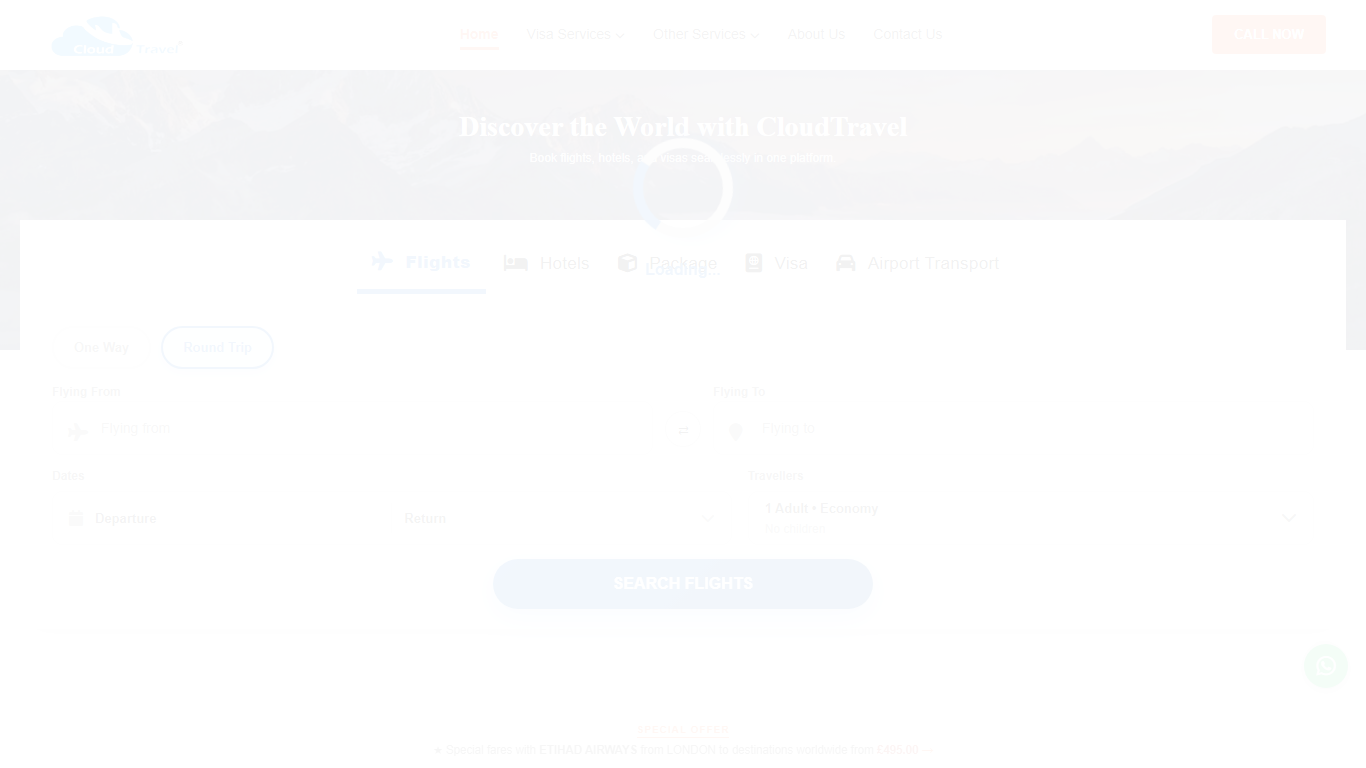
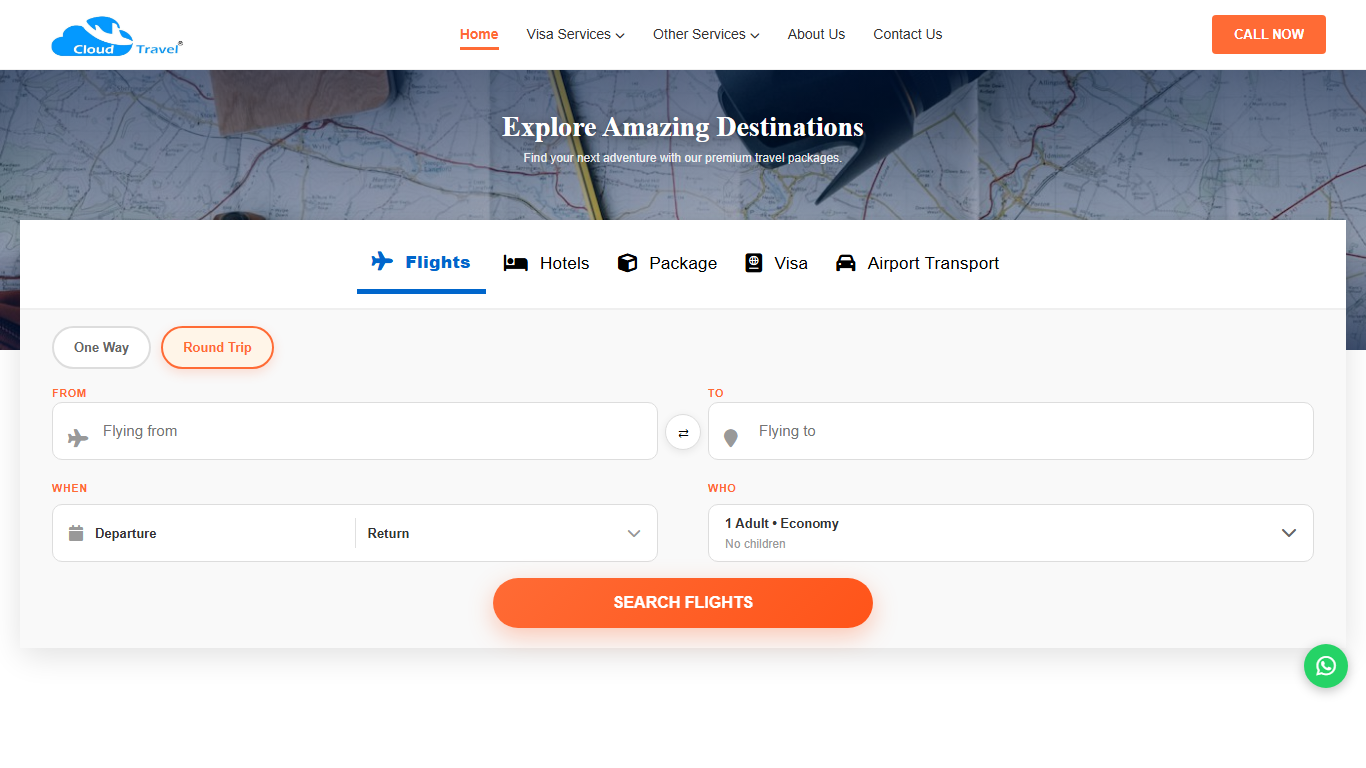
flight search input done

diff --git a/resources/js/components/FlightSearchForm.tsx b/resources/js/components/FlightSearchForm.tsx
@@ -78,21 +78,21 @@ export default function FlightSearchForm({
     return (
         <div className="flight-search-form">
             {/* Trip Type Toggle */}
-            <div className="trip-type-buttons" style={{ display: 'flex', gap: '10px', marginBottom: '14px', paddingBottom: '0px', borderBottom: 'none' }}>
+            <div className="trip-type-buttons" style={{ display: 'flex', gap: '10px', marginBottom: '16px', paddingBottom: '0px', borderBottom: 'none' }}>
                 <button
                     onClick={() => setTripType('oneway')}
                     className="trip-type-btn"
                     style={{
-                        background: tripType === 'oneway' ? '#e8f1ff' : '#fff',
-                        color: tripType === 'oneway' ? '#0066cc' : '#666',
-                        border: `2px solid ${tripType === 'oneway' ? '#0066cc' : '#ddd'}`,
+                        background: tripType === 'oneway' ? '#fff5e8' : '#fff',
+                        color: tripType === 'oneway' ? '#ff6b35' : '#666',
+                        border: `2px solid ${tripType === 'oneway' ? '#ff6b35' : '#ddd'}`,
                         padding: '10px 20px',
                         borderRadius: '24px',
                         fontSize: '13px',
                         fontWeight: 600,
                         cursor: 'pointer',
                         transition: 'all 0.3s cubic-bezier(0.4, 0, 0.2, 1)',
-                        boxShadow: tripType === 'oneway' ? '0 4px 12px rgba(0, 102, 204, 0.2)' : 'none'
+                        boxShadow: tripType === 'oneway' ? '0 4px 12px rgba(255, 107, 53, 0.2)' : 'none'
                     }}
                     onMouseEnter={(e) => {
                         e.currentTarget.style.transform = 'translateY(-2px)';
@@ -113,16 +113,16 @@ export default function FlightSearchForm({
                     onClick={() => setTripType('roundtrip')}
                     className="trip-type-btn"
                     style={{
-                        background: tripType === 'roundtrip' ? '#e8f1ff' : '#fff',
-                        color: tripType === 'roundtrip' ? '#0066cc' : '#666',
-                        border: `2px solid ${tripType === 'roundtrip' ? '#0066cc' : '#ddd'}`,
+                        background: tripType === 'roundtrip' ? '#fff5e8' : '#fff',
+                        color: tripType === 'roundtrip' ? '#ff6b35' : '#666',
+                        border: `2px solid ${tripType === 'roundtrip' ? '#ff6b35' : '#ddd'}`,
                         padding: '10px 20px',
                         borderRadius: '24px',
                         fontSize: '13px',
                         fontWeight: 600,
                         cursor: 'pointer',
                         transition: 'all 0.3s cubic-bezier(0.4, 0, 0.2, 1)',
-                        boxShadow: tripType === 'roundtrip' ? '0 4px 12px rgba(0, 102, 204, 0.2)' : 'none'
+                        boxShadow: tripType === 'roundtrip' ? '0 4px 12px rgba(255, 107, 53, 0.2)' : 'none'
                     }}
                     onMouseEnter={(e) => {
                         e.currentTarget.style.transform = 'translateY(-2px)';
@@ -142,11 +142,11 @@ export default function FlightSearchForm({
             </div>
 
             {/* Row 1: From, Swap, To */}
-            <div className="flight-search-row1" style={{ display: 'grid', gridTemplateColumns: '1fr 1fr', gap: '60px', marginBottom: '12px', alignItems: 'flex-start', position: 'relative' }}>
+            <div className="flight-search-row1" style={{ display: 'grid', gridTemplateColumns: '1fr 1fr', gap: '50px', marginBottom: '20px', alignItems: 'flex-start', position: 'relative' }}>
                 {/* FROM CITY - Searchable Dropdown */}
                 <div style={{ position: 'relative', width: '100%', margin: 0, padding: 0 }}>
-                    <label style={{ display: 'block', fontSize: '12px', color: '#666', marginBottom: '6px', fontWeight: 600, margin: 0, padding: 0 }}>Flying From</label>
-                    <div style={{ position: 'absolute', left: '16px', top: 'calc(50% + 14px)', transform: 'translateY(-50%)', fontSize: '18px', color: '#999', pointerEvents: 'none', zIndex: 5 }}>
+                    <label style={{ display: 'block', fontSize: '11px', color: '#ff6b35', marginBottom: '8px', fontWeight: 700, margin: 0, padding: 0, textTransform: 'uppercase', letterSpacing: '0.5px' }}>From</label>
+                    <div style={{ position: 'absolute', left: '16px', top: 'calc(50% + 16px)', transform: 'translateY(-50%)', fontSize: '18px', color: '#999', pointerEvents: 'none', zIndex: 5 }}>
                         <i className="fa fa-plane"></i>
                     </div>
                     <input
@@ -158,8 +158,16 @@ export default function FlightSearchForm({
                             setFromCity('');
                             setShowFromDropdown(true);
                         }}
-                        onFocus={() => setShowFromDropdown(true)}
-                        style={{ width: '100%', padding: '14px 16px 14px 48px', border: '1.5px solid #ddd', borderRadius: '10px', fontSize: '14px', height: '54px', boxSizing: 'border-box', transition: 'border-color 0.3s' }}
+                        onFocus={(e) => {
+                            setShowFromDropdown(true);
+                            e.currentTarget.style.borderColor = '#ff6b35';
+                            e.currentTarget.style.boxShadow = '0 0 0 3px rgba(255, 107, 53, 0.1)';
+                        }}
+                        onBlur={(e) => {
+                            e.currentTarget.style.borderColor = '#ddd';
+                            e.currentTarget.style.boxShadow = 'none';
+                        }}
+                        style={{ width: '100%', padding: '16px 16px 16px 50px', border: '1.5px solid #ddd', borderRadius: '10px', fontSize: '15px', height: '58px', boxSizing: 'border-box', transition: 'all 0.3s', fontWeight: 500 }}
                     />
                     {/* FROM DROPDOWN */}
                     {showFromDropdown && (
@@ -189,8 +197,8 @@ export default function FlightSearchForm({
 
                 {/* TO CITY - Searchable Dropdown */}
                 <div style={{ position: 'relative', width: '100%', margin: 0, padding: 0 }}>
-                    <label style={{ display: 'block', fontSize: '12px', color: '#666', marginBottom: '6px', fontWeight: 600, margin: 0, padding: 0 }}>Flying To</label>
-                    <div style={{ position: 'absolute', left: '16px', top: 'calc(50% + 14px)', transform: 'translateY(-50%)', fontSize: '18px', color: '#999', pointerEvents: 'none', zIndex: 5 }}>
+                    <label style={{ display: 'block', fontSize: '11px', color: '#ff6b35', marginBottom: '8px', fontWeight: 700, margin: 0, padding: 0, textTransform: 'uppercase', letterSpacing: '0.5px' }}>To</label>
+                    <div style={{ position: 'absolute', left: '16px', top: 'calc(50% + 16px)', transform: 'translateY(-50%)', fontSize: '18px', color: '#999', pointerEvents: 'none', zIndex: 5 }}>
                         <i className="fa fa-map-marker"></i>
                     </div>
                     <input
@@ -202,8 +210,16 @@ export default function FlightSearchForm({
                             setToCity('');
                             setShowToDropdown(true);
                         }}
-                        onFocus={() => setShowToDropdown(true)}
-                        style={{ width: '100%', padding: '14px 16px 14px 48px', border: '1.5px solid #ddd', borderRadius: '10px', fontSize: '14px', height: '54px', boxSizing: 'border-box', transition: 'border-color 0.3s' }}
+                        onFocus={(e) => {
+                            setShowToDropdown(true);
+                            e.currentTarget.style.borderColor = '#ff6b35';
+                            e.currentTarget.style.boxShadow = '0 0 0 3px rgba(255, 107, 53, 0.1)';
+                        }}
+                        onBlur={(e) => {
+                            e.currentTarget.style.borderColor = '#ddd';
+                            e.currentTarget.style.boxShadow = 'none';
+                        }}
+                        style={{ width: '100%', padding: '16px 16px 16px 50px', border: '1.5px solid #ddd', borderRadius: '10px', fontSize: '15px', height: '58px', boxSizing: 'border-box', transition: 'all 0.3s', fontWeight: 500 }}
                     />
                     {/* TO DROPDOWN */}
                     {showToDropdown && (
@@ -243,7 +259,7 @@ export default function FlightSearchForm({
                         setShowFromDropdown(false);
                         setShowToDropdown(false);
                     }}
-                    style={{ position: 'absolute', top: '28px', left: '50%', transform: 'translateX(-50%)', background: '#fff', border: '1px solid #ccc', borderRadius: '60%', cursor: 'pointer', fontSize: '13px', transition: 'all 0.3s ease', display: 'flex', alignItems: 'center', justifyContent: 'center', height: '36px', width: '36px', zIndex: 15, boxShadow: '0 1px 4px rgba(0,0,0,0.08)' }}
+                    style={{ position: 'absolute', top: '29px', left: '50%', transform: 'translateX(-50%)', background: '#fff', border: '1px solid #ddd', borderRadius: '60%', cursor: 'pointer', fontSize: '13px', transition: 'all 0.3s ease', display: 'flex', alignItems: 'center', justifyContent: 'center', height: '36px', width: '36px', zIndex: 15, boxShadow: '0 2px 8px rgba(0,0,0,0.08)' }}
                     onMouseEnter={(e) => {
                         e.currentTarget.style.background = '#f0f8ff';
                         e.currentTarget.style.borderColor = '#0066cc';
@@ -260,18 +276,24 @@ export default function FlightSearchForm({
             </div>
 
             {/* Row 2: Date(s) and Travellers */}
-            <div className="flight-search-row2" style={{ display: 'grid', gridTemplateColumns: '1.2fr 1fr', gap: '16px', marginBottom: '14px', alignItems: 'flex-start' }}>
+            <div className="flight-search-row2" style={{ display: 'grid', gridTemplateColumns: '1fr 1fr', gap: '50px', marginBottom: '16px', alignItems: 'flex-start', marginTop: '8px' }}>
                 {/* Combined Date Range Picker */}
                 <div style={{ width: '100%', position: 'relative' }}>
-                    <label style={{ display: 'block', fontSize: '12px', color: '#666', marginBottom: '6px', fontWeight: 600 }}>Dates</label>
+                    <label style={{ display: 'block', fontSize: '11px', color: '#ff6b35', marginBottom: '8px', fontWeight: 700, textTransform: 'uppercase', letterSpacing: '0.5px' }}>When</label>
                     <div
                         onClick={() => {
                             setShowDateRangePicker(!showDateRangePicker);
                             if (!showDateRangePicker) setShowTravellerModal(false);
                         }}
-                        style={{ display: 'flex', alignItems: 'center', height: '54px', border: '1.5px solid #e0e0e0', borderRadius: '10px', background: '#fff', transition: 'border-color 0.3s', cursor: 'pointer', padding: '0 16px' }}
-                        onMouseEnter={(e) => e.currentTarget.style.borderColor = '#d0d0d0'}
-                        onMouseLeave={(e) => e.currentTarget.style.borderColor = '#e0e0e0'}
+                        style={{ display: 'flex', alignItems: 'center', height: '58px', border: '1.5px solid #ddd', borderRadius: '10px', background: '#fff', transition: 'all 0.3s', cursor: 'pointer', padding: '0 16px' }}
+                        onMouseEnter={(e) => {
+                            e.currentTarget.style.borderColor = '#ff6b35';
+                            e.currentTarget.style.boxShadow = '0 0 0 3px rgba(255, 107, 53, 0.1)';
+                        }}
+                        onMouseLeave={(e) => {
+                            e.currentTarget.style.borderColor = '#ddd';
+                            e.currentTarget.style.boxShadow = 'none';
+                        }}
                     >
                         {/* Calendar Icon */}
                         <div style={{ fontSize: '16px', color: '#999', marginRight: '12px', display: 'flex', alignItems: 'center' }}>
@@ -322,15 +344,21 @@ export default function FlightSearchForm({
 
                 {/* Travellers & Class */}
                 <div style={{ position: 'relative', width: '100%' }}>
-                    <label style={{ display: 'block', fontSize: '12px', color: '#666', marginBottom: '6px', fontWeight: 600 }}>Travellers</label>
+                    <label style={{ display: 'block', fontSize: '11px', color: '#ff6b35', marginBottom: '8px', fontWeight: 700, textTransform: 'uppercase', letterSpacing: '0.5px' }}>Who</label>
                     <div
                         onClick={() => {
                             setShowTravellerModal(!showTravellerModal);
                             if (!showTravellerModal) setShowDateRangePicker(false);
                         }}
-                        style={{ display: 'flex', alignItems: 'center', justifyContent: 'space-between', height: '54px', border: '1.5px solid #e0e0e0', borderRadius: '10px', background: '#fff', padding: '12px 16px', cursor: 'pointer', transition: 'border-color 0.3s' }}
-                        onMouseEnter={(e) => e.currentTarget.style.borderColor = '#d0d0d0'}
-                        onMouseLeave={(e) => e.currentTarget.style.borderColor = '#e0e0e0'}
+                        style={{ display: 'flex', alignItems: 'center', justifyContent: 'space-between', height: '58px', border: '1.5px solid #ddd', borderRadius: '10px', background: '#fff', padding: '12px 16px', cursor: 'pointer', transition: 'all 0.3s' }}
+                        onMouseEnter={(e) => {
+                            e.currentTarget.style.borderColor = '#ff6b35';
+                            e.currentTarget.style.boxShadow = '0 0 0 3px rgba(255, 107, 53, 0.1)';
+                        }}
+                        onMouseLeave={(e) => {
+                            e.currentTarget.style.borderColor = '#ddd';
+                            e.currentTarget.style.boxShadow = 'none';
+                        }}
                     >
                         <div style={{ display: 'flex', flexDirection: 'column', gap: '2px' }}>
                             <div style={{ fontSize: '13px', color: '#333', fontWeight: 600 }}>
@@ -357,7 +385,7 @@ export default function FlightSearchForm({
                                         const totalWithThisAdult = n + children + infants;
                                         const isDisabled = n !== adults && totalWithThisAdult > 9;
                                         return (
-                                            <button key={n} onClick={() => !isDisabled && setAdults(n)} disabled={isDisabled} style={{ background: adults === n ? '#0066cc' : '#fff', color: adults === n ? '#fff' : isDisabled ? '#ddd' : '#666', border: adults === n ? 'none' : '1px solid ' + (isDisabled ? '#f0f0f0' : '#ddd'), width: adults === n ? '32px' : '28px', height: adults === n ? '32px' : '28px', borderRadius: '4px', cursor: isDisabled ? 'not-allowed' : 'pointer', fontSize: adults === n ? '11px' : '10px', fontWeight: adults === n ? 700 : 500, opacity: isDisabled ? 0.4 : 1 }}>{n}</button>
+                                            <button key={n} onClick={() => !isDisabled && setAdults(n)} disabled={isDisabled} style={{ background: adults === n ? '#ff6b35' : '#fff', color: adults === n ? '#fff' : isDisabled ? '#ddd' : '#666', border: adults === n ? 'none' : '1px solid ' + (isDisabled ? '#f0f0f0' : '#ddd'), width: adults === n ? '32px' : '28px', height: adults === n ? '32px' : '28px', borderRadius: '4px', cursor: isDisabled ? 'not-allowed' : 'pointer', fontSize: adults === n ? '11px' : '10px', fontWeight: adults === n ? 700 : 500, opacity: isDisabled ? 0.4 : 1 }}>{n}</button>
                                         );
                                     })}
                                 </div>
@@ -421,7 +449,7 @@ export default function FlightSearchForm({
                     className="search-flights-btn"
                     onClick={handleFlightSearch}
                     style={{
-                        background: 'linear-gradient(135deg, #0066cc 0%, #0052a3 100%)',
+                        background: 'linear-gradient(135deg, #ff6b35 0%, #ff5419 100%)',
                         color: '#fff',
                         border: 'none',
                         padding: '14px 120px',
@@ -432,18 +460,18 @@ export default function FlightSearchForm({
                         height: '50px',
                         whiteSpace: 'nowrap',
                         transition: 'all 0.3s cubic-bezier(0.4, 0, 0.2, 1)',
-                        boxShadow: '0 8px 24px rgba(0, 102, 204, 0.35)',
+                        boxShadow: '0 8px 24px rgba(255, 107, 53, 0.35)',
                         display: 'flex',
                         alignItems: 'center',
                         justifyContent: 'center',
                         minWidth: '280px'
                     }}
                     onMouseEnter={(e) => {
-                        e.currentTarget.style.boxShadow = '0 12px 32px rgba(0, 102, 204, 0.45)';
+                        e.currentTarget.style.boxShadow = '0 12px 32px rgba(255, 107, 53, 0.45)';
                         e.currentTarget.style.transform = 'translateY(-3px)';
                     }}
                     onMouseLeave={(e) => {
-                        e.currentTarget.style.boxShadow = '0 8px 24px rgba(0, 102, 204, 0.35)';
+                        e.currentTarget.style.boxShadow = '0 8px 24px rgba(255, 107, 53, 0.35)';
                         e.currentTarget.style.transform = 'translateY(0)';
                     }}
                     onMouseDown={(e) => {